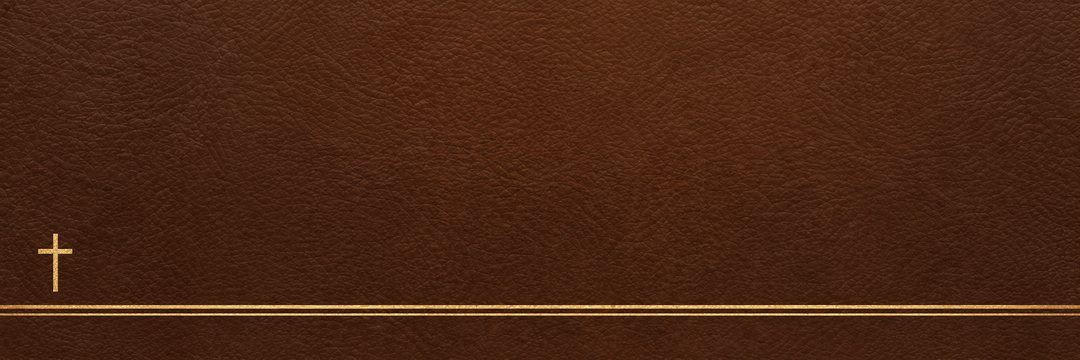
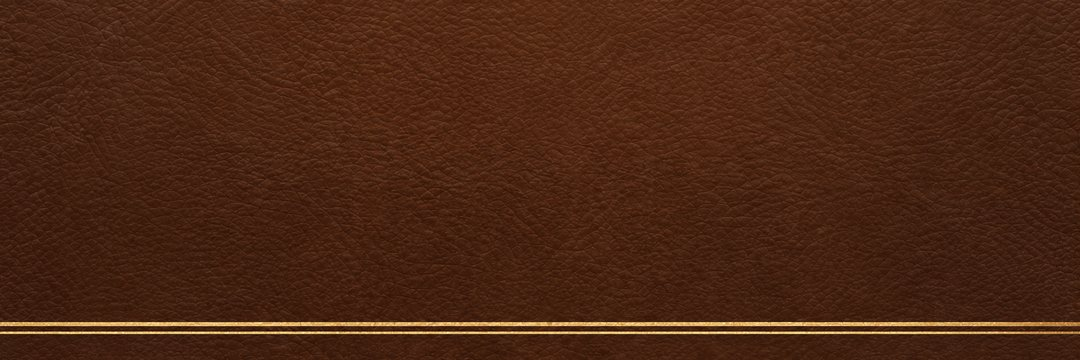
bible-reading V1.2a: 헤더 왼쪽 십자가 잘라냄 · 짧은 화면에서 가입/축하 카드 위쪽 잘림 수정 · 줄바꿈 수정 · 캐시 20261005e

Changed region(s): [[0.0, 0.825, 1.0, 0.9472], [0.0306, 0.6417, 0.0611, 0.7944]]

diff --git a/bible-reading/open/index.html b/bible-reading/open/index.html
@@ -173,6 +173,13 @@ img.brand-mark{display:block;object-fit:cover;padding:0;background:none;box-shad
 .cele-card p{color:var(--sub);font-size:13px;margin:0 18px 16px;line-height:1.6}
 .cele-card .primary{width:auto;margin:0 18px 18px;display:block;width:calc(100% - 36px)}
 .empty-art{display:block;width:72%;max-width:260px;margin:10px auto 4px;border-radius:50%}
+/* 화면 확인 후 보정 (2026-10-05) — 화면이 짧아도 카드 위쪽이 잘리지 않게(스크롤 + auto 여백) · 글자 줄바꿈 */
+.overlay,.cele{overflow-y:auto;flex-direction:column}
+.setup-card{margin:auto auto 0;flex-shrink:0}
+.cele-card{margin:auto;flex-shrink:0}
+.btn-row button{white-space:nowrap}
+.bdg span{white-space:nowrap}
+.prog-row span:first-child{width:44px;white-space:nowrap}
 
 .hidden{display:none!important}
 @media(min-width:640px){main{padding-top:4px}}

diff --git a/bible-reading/pw/index.html b/bible-reading/pw/index.html
@@ -173,6 +173,13 @@ img.brand-mark{display:block;object-fit:cover;padding:0;background:none;box-shad
 .cele-card p{color:var(--sub);font-size:13px;margin:0 18px 16px;line-height:1.6}
 .cele-card .primary{width:auto;margin:0 18px 18px;display:block;width:calc(100% - 36px)}
 .empty-art{display:block;width:72%;max-width:260px;margin:10px auto 4px;border-radius:50%}
+/* 화면 확인 후 보정 (2026-10-05) — 화면이 짧아도 카드 위쪽이 잘리지 않게(스크롤 + auto 여백) · 글자 줄바꿈 */
+.overlay,.cele{overflow-y:auto;flex-direction:column}
+.setup-card{margin:auto auto 0;flex-shrink:0}
+.cele-card{margin:auto;flex-shrink:0}
+.btn-row button{white-space:nowrap}
+.bdg span{white-space:nowrap}
+.prog-row span:first-child{width:44px;white-space:nowrap}
 
 .hidden{display:none!important}
 @media(min-width:640px){main{padding-top:4px}}

diff --git a/bible-reading/open/sw.js b/bible-reading/open/sw.js
@@ -1,5 +1,5 @@
 /* 성경 읽기 - 서비스 워커 (오프라인 지원) */
-const CACHE = 'bible-cache-open-20261005d';
+const CACHE = 'bible-cache-open-20261005e';
 const ASSETS = ['./', 'index.html', 'manifest.json', 'icon-192.png', 'icon-512.png'];
 
 self.addEventListener('install', (e) => {

diff --git a/bible-reading/pw/sw.js b/bible-reading/pw/sw.js
@@ -1,5 +1,5 @@
 /* 성경 읽기 - 서비스 워커 (오프라인 지원) */
-const CACHE = 'bible-cache-pw-20261005d';
+const CACHE = 'bible-cache-pw-20261005e';
 const ASSETS = ['./', 'index.html', 'manifest.json', 'icon-192.png', 'icon-512.png'];
 
 self.addEventListener('install', (e) => {
